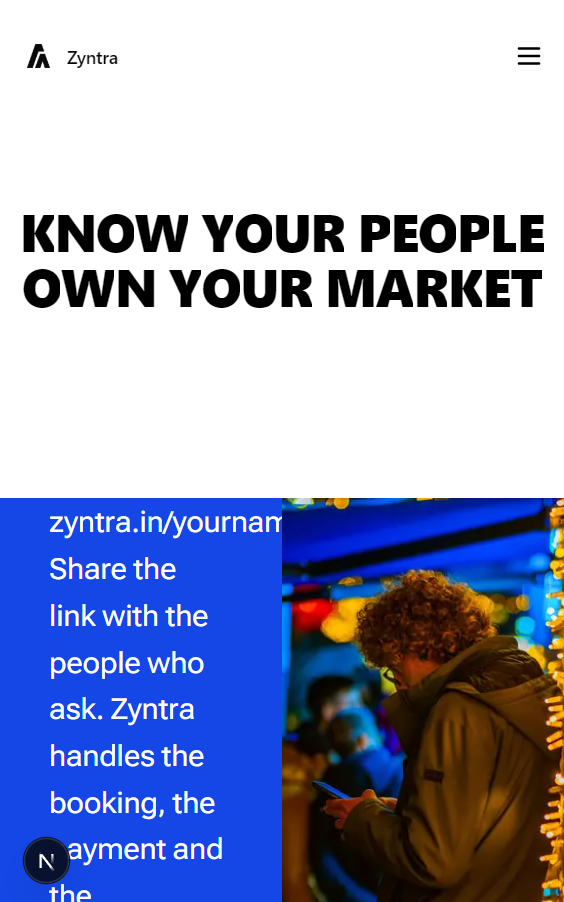
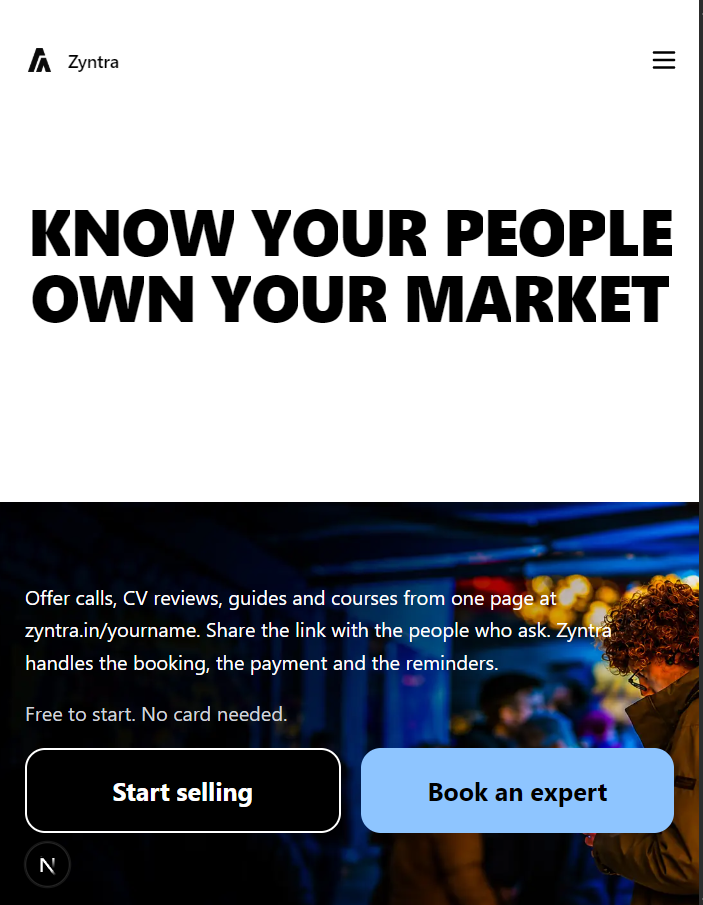
feat(landing): enhance HomePage layout with DuoSection and updated styles

diff --git a/src/components/landing/HeroSection.tsx b/src/components/landing/HeroSection.tsx
@@ -1,12 +1,9 @@
 "use client";
 
 import Image from "next/image";
-import { useRef } from "react";
 import HeroText from "../../components/landing/ui/Hero-shutter-text";
-import VariableProximity from "../../components/landing/ui/VariableProximity";
 
 const HeroSection = () => {
-  const containerRef = useRef<HTMLDivElement>(null);
   return (
     <main className="h-dvh w-full">
       <div className="h-[55%] w-full overflow-hidden bg-white dark:bg-zinc-950">
@@ -14,34 +11,28 @@ const HeroSection = () => {
       </div>
 
       {/* hero-section bottom*/}
-      <div className="h-[45%] w-full bg-blue-700 flex ">
-        <div className="w-1/2 p-10">
+      <div className="relative flex h-[45%] w-full overflow-hidden bg-blue-700/75 ">
+        <div className="absolute inset-0">
+          <Image
+            src="/images/landing/hero-section-bottom.png"
+            alt=""
+            fill
+            sizes="100vw"
+            className="object-cover"
+          />
+        </div>
+        <div className="relative z-10 w-full lg:w-1/2 md:p-10 p-5">
           <div className="flex flex-col justify-center h-full">
-            <div ref={containerRef} className="relative">
-              <VariableProximity
-                label={
-                  "Offer calls, CV reviews, guides and courses from one page at zyntra.in/yourname. Share the link with the people who ask. Zyntra handles the booking, the payment and the reminders."
-                }
-                className="text-[1.5rem] leading-relaxed text-white"
-                fromFontVariationSettings="'wght' 400, 'opsz' 9"
-                toFontVariationSettings="'wght' 1000, 'opsz' 40"
-                fromColor="white"
-                toColor="white"
-                containerRef={containerRef}
-                radius={100}
-                falloff="linear"
-                smoothing={0.2}
-                scale={1}
-                lift={0}
-                idleWave={false}
-                fontSize={23}
-              />
-            </div>
-            <p className="text-[1.25rem] text-gray-300 py-6">
+            <p className="lg:text-[1.5rem] text-[1rem] leading-relaxed text-white">
+              Offer calls, CV reviews, guides and courses from one page at
+              zyntra.in/yourname. Share the link with the people who ask. Zyntra
+              handles the booking, the payment and the reminders.
+            </p>
+            <p className="lg:text-[1.25rem] text-[1rem] text-gray-300 lg:py-6 py-4">
               Free to start. No card needed.
             </p>
-            <div className="flex justify-between gap-10 ">
-              <button className="w-full h-17 bg-black rounded-2xl text-xl font-bold text-white cursor-pointer">
+            <div className="flex justify-between lg:gap-10 gap-4">
+              <button className="w-full h-17 bg-black rounded-2xl text-xl font-bold text-white border-2 cursor-pointer">
                 Start selling
               </button>
               <button className="w-full h-17 bg-blue-300 rounded-2xl text-xl font-bold text-black cursor-pointer">
@@ -49,15 +40,6 @@ const HeroSection = () => {
               </button>
             </div>
           </div>
-        </div>
-        <div className="relative w-1/2">
-          <Image
-            src="/images/landing/hero-section-bottom-image.jpg"
-            alt="Hero Image"
-            fill
-            sizes="50vw"
-            className="object-cover"
-          />
         </div>
       </div>
     </main>

diff --git a/src/components/landing/ui/Hero-shutter-text.tsx b/src/components/landing/ui/Hero-shutter-text.tsx
@@ -56,7 +56,7 @@ export default function HeroText({
                     delay: i * 0.04,
                     ease: "easeInOut",
                   }}
-                  className="absolute inset-0 text-[9vw] 2xl:text-[9.5vw] leading-none 2xl:leading-30 font-black tracking-tighter text-indigo-600 z-10 pointer-events-none"
+                  className="absolute inset-0 text-[9vw] 2xl:text-[9.5vw] leading-none 2xl:leading-30 font-black tracking-tighter text-blue-700 z-10 pointer-events-none"
                   style={{
                     clipPath: "polygon(0 0, 100% 0, 100% 35%, 0 35%)",
                   }}
@@ -91,7 +91,7 @@ export default function HeroText({
                     delay: i * 0.04 + 0.2,
                     ease: "easeInOut",
                   }}
-                  className="absolute inset-0 text-[9vw] 2xl:text-[9.5vw] leading-none font-black tracking-tighter text-indigo-600 z-10 pointer-events-none"
+                  className="absolute inset-0 text-[9vw] 2xl:text-[9.5vw] leading-none font-black tracking-tighter text-blue-700 z-10 pointer-events-none"
                   style={{
                     clipPath:
                       "polygon(0 65%, 100% 65%, 100% 100%, 0 100%)",

diff --git a/src/app/(landing)/page.tsx b/src/app/(landing)/page.tsx
@@ -8,12 +8,14 @@ const HomePage = () => {
       <div className="h-dvh">
         <HeroSection />
       </div>
-      <div className="h-dvh ">
-        <div className="flex h-full w-full">
-          <div className="flex w-[60%] bg-amber-50">
+
+      {/* Duo Section */}
+      <div className="h-dvh rounded-b-4xl ">
+        <div className="flex h-auto lg:h-full w-full lg:flex-row flex-col-reverse">
+          <div className="flex w-full lg:w-[60%] bg-blue-700">
             <DuoSection />
           </div>
-          <div className="flex h-full w-[40%] flex-col items-center justify-center bg-blue-800">
+          <div className="flex h-full w-full lg:w-[40%] pt-10 lg:pt-0 flex-col items-center justify-center bg-blue-700">
             <h2 className="mb-4 w-full text-center text-5xl font-bold text-white">
               Why Choose Zyntra?
             </h2>
@@ -24,7 +26,7 @@ const HomePage = () => {
           </div>
         </div>
       </div>
-      <div className="h-dvh">Home page</div>
+      <div className="h-dvh bg-[#0E0E0E] text-white ">Home page</div>
     </>
   );
 };

diff --git a/src/components/landing/DuoSection.tsx b/src/components/landing/DuoSection.tsx
@@ -38,14 +38,22 @@ export function DuoSection() {
   }, []);
 
   return (
-    <div ref={sectionRef} className="bg-amber-50">
-      <GlassPhoneDuo
-        className="w-full max-w-4xl bg-amber-50"
-        open={open}
-        finish="star-white"
-        screenSrc="/landing/openDuo.png"
-        coverSrc="/landing/closeDuo.png"
-      />
-    </div>
+    <>
+      <div className="relative">
+        <div ref={sectionRef} className="bg-blue-700 z-0 relative">
+          <GlassPhoneDuo
+            className="w-full max-w-4xl bg-blue-700"
+            open={open}
+            finish="star-white"
+            screenSrc="/landing/openDuo.png"
+            coverSrc="/landing/closeDuo.png"
+          />
+           <h3 className="absolute inset-x-0 bottom-15 z-10 text-center text-2xl text-white">
+          Manage Everything from One Dashboard
+        </h3>
+        </div>
+       
+      </div>
+    </>
   );
 }

diff --git a/src/components/landing/Flowing.tsx b/src/components/landing/Flowing.tsx
@@ -46,8 +46,8 @@ const Flowing = ({ className }: FlowingProps) => {
         magnet={0.25}
         followCursor={0.4}
         textColor="#ffffff"
-        bgColor="#1e40af"
-        marqueeBgColor="#FFFBEB"
+        bgColor="rgb(20, 71, 230)"
+        marqueeBgColor="rgb(59, 130, 246)"
         marqueeTextColor="#120F17"
         direction="left"
         duration={0.5}
